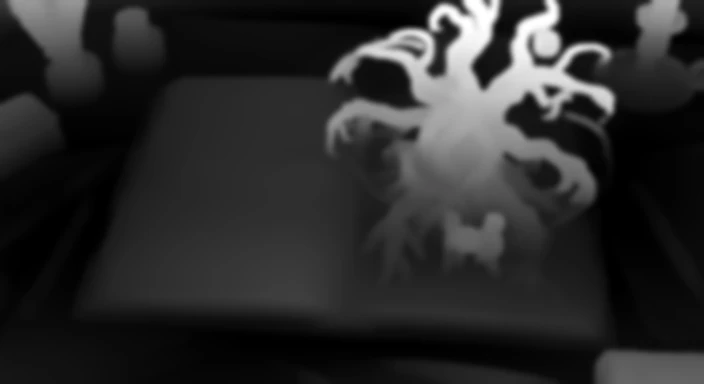
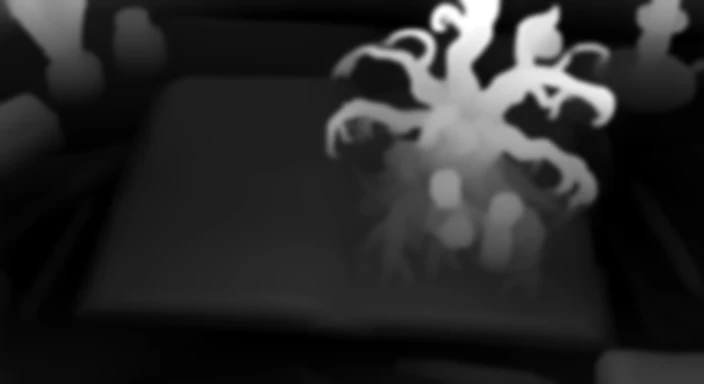
Upside-Down World p13: new basketball picture; Sam points and gasps (soft fade), gentle branch sway, warm sun glow, dust, 2x upscale
Claude-Session: https://claude.ai/code/session_01BFtifSTdmWYaAK88ECs5PE

diff --git a/books/upside-down-world/sprite.js b/books/upside-down-world/sprite.js
@@ -1,2 +1,2 @@
 /* flying objects drawn over a still page: img = transparent sprite, rs = ball radius in the sprite, path = [x,y,radius] per frame at 24 fps in 1408x768 picture pixels */
-window.SPRITES={p01:{img:"img/p01-ball.webp",size:260,rs:104.5,path:[[951.0,390.0,18.5],[946.4,377.6,21.9],[944.8,373.2,22.6],[941.8,364.8,24.4],[938.6,356.8,26.0],[935.2,349.1,27.6],[931.6,342.1,29.2],[927.9,335.5,30.7],[923.8,329.1,32.0],[919.7,322.8,33.5],[915.7,316.9,34.9],[911.8,311.1,36.2],[907.8,305.5,37.6],[903.9,300.1,38.9],[899.8,295.1,40.2],[895.8,290.0,41.2],[891.4,285.1,42.2],[887.2,280.3,43.2],[882.9,275.7,44.3],[878.9,271.0,45.3],[874.9,266.6,46.5],[871.2,262.1,47.8],[867.5,257.7,49.1],[863.9,253.4,50.5],[860.2,249.1,51.8],[856.2,244.7,53.0],[852.4,240.6,54.2],[848.3,236.6,55.3],[843.9,232.6,56.5],[839.6,228.6,57.6],[835.4,224.8,58.6],[830.9,221.0,59.7],[826.3,217.3,60.7],[821.9,213.7,61.5],[817.4,210.1,62.4],[812.8,206.8,63.6],[808.1,203.5,64.5],[803.4,200.3,65.6],[798.8,196.9,66.6],[794.1,193.7,67.7],[789.4,190.4,68.8],[784.8,187.1,70.0],[780.1,183.8,71.3],[775.3,180.6,72.7],[770.3,177.4,74.1],[765.1,174.3,75.5],[759.8,171.1,77.0],[754.7,167.8,78.5],[749.2,164.6,80.0],[743.7,161.4,81.3],[738.1,157.9,82.7],[732.6,154.6,84.0]]},p02:{img:"img/p01-ball.webp",size:260,rs:104.5,kind:"lob",from:[1008,538,9],to:[1040,212,4.2],apex:170,rig:[{img:"img/p02-leg.webp",box:[960,515,60,60],pivot:[987,531],depth:[988,545],motion:"leg"}]},p03:{rig:[{img:"img/p03-leo.webp",box:[906,462,52,56],pivot:[932,504],depth:[932,495],motion:"headL"},{img:"img/p03-sam.webp",box:[946,475,52,56],pivot:[972,515],depth:[972,505],motion:"headS"}]},p03s:{img:"img/p01-ball.webp",size:260,rs:104.5,kind:"hops",ground:true,rest:1.6,start:[920.3,488.6,14.5],du:[1.25,.42,.3],grow:.5,bend:-62,hops:[[896,197,9.5,175],[892,187,8.5,15],[879,181,7.5,6]],to:[879,181,7.5]},p03t:{rig:[{img:"img/p03-turn.webp",box:[888,468,114,140],pivot:[945,538],depth:[945,540],motion:"turn"}]},p05p:{rig:[{img:"img/p05-point.webp",box:[884,452,118,156],pivot:[943,530],depth:[943,540],motion:"point2"}]},p06k:{rig:[{img:"img/p06-k0.webp",box:[878,423,80,114],pivot:[918.4,478.3],depth:[918.4,508.3],motion:"kf0"},{img:"img/p06-k1.webp",box:[866,417,97,111],pivot:[915.3,473.5],depth:[915.3,503.5],motion:"kf1"},{img:"img/p06-k2.webp",box:[874,472,99,116],pivot:[921.4,531.8],depth:[921.4,561.8],motion:"kf2"}]},p07k:{rig:[{img:"img/p07-kids.webp",box:[859.6,324.2,83.1,120.1],pivot:[910,404],depth:[910,395],motion:"walk7"}]},p08k:{rig:[{img:"img/p08-k1.webp",box:[750,272,339.5,323],pivot:[920,590],depth:[920,560],motion:"p8a"},{img:"img/p08-k2.webp",box:[781,272,283.5,323],pivot:[920,590],depth:[920,560],motion:"p8b"}]},p09k:{rig:[{img:"img/p09-wave.webp",box:[868,430,152,180],pivot:[944,520],depth:[944,540],motion:"p9"}]},p10k:{rig:[{img:"img/p10-kids.webp",box:[800,350,240,210],pivot:[920,455],depth:[920,470],motion:"stride"},{img:"img/p10-whale.webp",box:[640,30,550,380],pivot:[905,220],depth:[905,220],motion:"flip10"}]},p11k:{rig:[{img:"img/p10-kids.webp",box:[800,350,240,210],pivot:[920,455],depth:[920,470],motion:"stride"},{img:"img/p11-song.webp",box:[23,59,1272,491],pivot:[660,300],depth:[880,180],motion:"song11"}]},p12k:{rig:[{img:"img/p12-k1.webp",box:[810,340,250,260],pivot:[935,470],depth:[935,480],motion:"p12a"},{img:"img/p12-k2.webp",box:[810,340,250,260],pivot:[935,470],depth:[935,480],motion:"p12b"}]}};
+window.SPRITES={p01:{img:"img/p01-ball.webp",size:260,rs:104.5,path:[[951.0,390.0,18.5],[946.4,377.6,21.9],[944.8,373.2,22.6],[941.8,364.8,24.4],[938.6,356.8,26.0],[935.2,349.1,27.6],[931.6,342.1,29.2],[927.9,335.5,30.7],[923.8,329.1,32.0],[919.7,322.8,33.5],[915.7,316.9,34.9],[911.8,311.1,36.2],[907.8,305.5,37.6],[903.9,300.1,38.9],[899.8,295.1,40.2],[895.8,290.0,41.2],[891.4,285.1,42.2],[887.2,280.3,43.2],[882.9,275.7,44.3],[878.9,271.0,45.3],[874.9,266.6,46.5],[871.2,262.1,47.8],[867.5,257.7,49.1],[863.9,253.4,50.5],[860.2,249.1,51.8],[856.2,244.7,53.0],[852.4,240.6,54.2],[848.3,236.6,55.3],[843.9,232.6,56.5],[839.6,228.6,57.6],[835.4,224.8,58.6],[830.9,221.0,59.7],[826.3,217.3,60.7],[821.9,213.7,61.5],[817.4,210.1,62.4],[812.8,206.8,63.6],[808.1,203.5,64.5],[803.4,200.3,65.6],[798.8,196.9,66.6],[794.1,193.7,67.7],[789.4,190.4,68.8],[784.8,187.1,70.0],[780.1,183.8,71.3],[775.3,180.6,72.7],[770.3,177.4,74.1],[765.1,174.3,75.5],[759.8,171.1,77.0],[754.7,167.8,78.5],[749.2,164.6,80.0],[743.7,161.4,81.3],[738.1,157.9,82.7],[732.6,154.6,84.0]]},p02:{img:"img/p01-ball.webp",size:260,rs:104.5,kind:"lob",from:[1008,538,9],to:[1040,212,4.2],apex:170,rig:[{img:"img/p02-leg.webp",box:[960,515,60,60],pivot:[987,531],depth:[988,545],motion:"leg"}]},p03:{rig:[{img:"img/p03-leo.webp",box:[906,462,52,56],pivot:[932,504],depth:[932,495],motion:"headL"},{img:"img/p03-sam.webp",box:[946,475,52,56],pivot:[972,515],depth:[972,505],motion:"headS"}]},p03s:{img:"img/p01-ball.webp",size:260,rs:104.5,kind:"hops",ground:true,rest:1.6,start:[920.3,488.6,14.5],du:[1.25,.42,.3],grow:.5,bend:-62,hops:[[896,197,9.5,175],[892,187,8.5,15],[879,181,7.5,6]],to:[879,181,7.5]},p03t:{rig:[{img:"img/p03-turn.webp",box:[888,468,114,140],pivot:[945,538],depth:[945,540],motion:"turn"}]},p05p:{rig:[{img:"img/p05-point.webp",box:[884,452,118,156],pivot:[943,530],depth:[943,540],motion:"point2"}]},p06k:{rig:[{img:"img/p06-k0.webp",box:[878,423,80,114],pivot:[918.4,478.3],depth:[918.4,508.3],motion:"kf0"},{img:"img/p06-k1.webp",box:[866,417,97,111],pivot:[915.3,473.5],depth:[915.3,503.5],motion:"kf1"},{img:"img/p06-k2.webp",box:[874,472,99,116],pivot:[921.4,531.8],depth:[921.4,561.8],motion:"kf2"}]},p07k:{rig:[{img:"img/p07-kids.webp",box:[859.6,324.2,83.1,120.1],pivot:[910,404],depth:[910,395],motion:"walk7"}]},p08k:{rig:[{img:"img/p08-k1.webp",box:[750,272,339.5,323],pivot:[920,590],depth:[920,560],motion:"p8a"},{img:"img/p08-k2.webp",box:[781,272,283.5,323],pivot:[920,590],depth:[920,560],motion:"p8b"}]},p09k:{rig:[{img:"img/p09-wave.webp",box:[868,430,152,180],pivot:[944,520],depth:[944,540],motion:"p9"}]},p10k:{rig:[{img:"img/p10-kids.webp",box:[800,350,240,210],pivot:[920,455],depth:[920,470],motion:"stride"},{img:"img/p10-whale.webp",box:[640,30,550,380],pivot:[905,220],depth:[905,220],motion:"flip10"}]},p11k:{rig:[{img:"img/p10-kids.webp",box:[800,350,240,210],pivot:[920,455],depth:[920,470],motion:"stride"},{img:"img/p11-song.webp",box:[23,59,1272,491],pivot:[660,300],depth:[880,180],motion:"song11"}]},p12k:{rig:[{img:"img/p12-k1.webp",box:[810,340,250,260],pivot:[935,470],depth:[935,480],motion:"p12a"},{img:"img/p12-k2.webp",box:[810,340,250,260],pivot:[935,470],depth:[935,480],motion:"p12b"}]},p13k:{rig:[{img:"img/p13-gasp.webp",box:[920,350,140,140],pivot:[990,420],depth:[990,430],motion:"p13"}]}};

diff --git a/books/upside-down-world/index.html b/books/upside-down-world/index.html
@@ -401,6 +401,9 @@ const MOT={
   /* page 12: the kids look ahead, turn to each other, high-five, then settle back (16 s) */
   p12(tt,j){const T=16;tt=((tt%T)+T)%T;const on=(s,e,f)=>tt<s||tt>e+f?0:tt<s+f?ease((tt-s)/f):tt<e?1:1-ease((tt-e)/f);
     return {dx:0,dy:0,rot:0,sx:1,sy:1,a:j===1?on(3,12.5,.55):on(6.6,10,.45)};},
+  /* page 13: Sam points at the strange ball and gasps, twice per 14 s cycle */
+  p13(tt){const T=14;tt=((tt%T)+T)%T;const on=(s,e)=>tt<s||tt>e+.45?0:tt<s+.4?ease((tt-s)/.4):tt<e?1:1-ease((tt-e)/.45);
+    return {dx:0,dy:0,rot:0,sx:1,sy:1,a:Math.max(on(2.5,6),on(9,11.5))};},
   hide(tt){const T=16;tt=((tt%T)+T)%T;const S=7.0,E=11.6+.85;return {dx:0,dy:0,rot:0,sx:1,sy:1,a:Math.max(0,Math.min(1,(tt-S)/.12,(E-tt)/.12))};},
   head(tt,dir,lag){const T=16;tt=((tt-lag)%T+T)%T;let k=0;
     if(tt>=.8&&tt<1.9)k=ease((tt-.8)/1.1);else if(tt>=1.9&&tt<4.8)k=1;else if(tt>=4.8&&tt<5.9)k=1-ease((tt-4.8)/1.1);
@@ -411,7 +414,7 @@ function drawRig(c,d,L,now,dt,w,h,t,ps,o){
   const p=L._p,dim=p.fx==='shade'?dimS:0;
   (d.rig||[]).forEach(r=>{if(!r.im||!r.im.complete||!r.im.naturalWidth)return;
     const tt=reduce?0:(now-pageT0)/1000;
-    const M=r.motion==='p12a'?MOT.p12(tt,1):r.motion==='p12b'?MOT.p12(tt,2):r.motion==='flip10'?MOT.flip10(tt):r.motion==='stride'?MOT.stride(tt):r.motion==='song11'?MOT.song11(tt):r.motion==='p9'?MOT.p9(tt):r.motion==='p8a'?MOT.p8(tt,1):r.motion==='p8b'?MOT.p8(tt,2):r.motion==='walk7'?MOT.walk7(tt):r.motion&&r.motion.startsWith('kf')?MOT.kf(tt,+r.motion[2]):r.motion==='point2'?MOT.point2(tt):r.motion==='point'?MOT.point(tt):r.motion==='hide'?MOT.hide(tt):r.motion==='turn'?MOT.turn(tt):r.motion==='leg'?MOT.leg(tt):r.motion==='headL'?MOT.head(tt,1,0):MOT.head(tt,-1,.18);
+    const M=r.motion==='p13'?MOT.p13(tt):r.motion==='p12a'?MOT.p12(tt,1):r.motion==='p12b'?MOT.p12(tt,2):r.motion==='flip10'?MOT.flip10(tt):r.motion==='stride'?MOT.stride(tt):r.motion==='song11'?MOT.song11(tt):r.motion==='p9'?MOT.p9(tt):r.motion==='p8a'?MOT.p8(tt,1):r.motion==='p8b'?MOT.p8(tt,2):r.motion==='walk7'?MOT.walk7(tt):r.motion&&r.motion.startsWith('kf')?MOT.kf(tt,+r.motion[2]):r.motion==='point2'?MOT.point2(tt):r.motion==='point'?MOT.point(tt):r.motion==='hide'?MOT.hide(tt):r.motion==='turn'?MOT.turn(tt):r.motion==='leg'?MOT.leg(tt):r.motion==='headL'?MOT.head(tt,1,0):MOT.head(tt,-1,.18);
     const rl=depthAt(p.img,r.depth[0],r.depth[1]),qx=r.pivot[0]/W,qy=r.pivot[1]/H,s2=shiftAt(qx,qy,rl,t),
       px=(o[0]+(qx-o[0])*curS+s2[0])*w,py=(o[1]+(qy-o[1])*curS+s2[1])*h;
     const sh=sm3(.30,.40,qx)*sm3(.97,.90,qx)*sm3(.95,.85,qy)*rl*(.055*Math.sin(t*1.6+qx*13+qy*6)+.035*Math.sin(t*2.7-qy*17)),f=(1+sh)*(1-dim*.25);

diff --git a/books/upside-down-world/story.js b/books/upside-down-world/story.js
@@ -37,7 +37,7 @@ window.STORY={title:"The Upside-Down World",author:"M. A. Mafodh",pages:[
 {img:"p10",sprite:"p12k",wind:-1.3,swirl:[1090,85,.004],dust:true,box:[362,190,628,405],parts:[
  "They scrambled back through the tunnel, stumbling over each other, and burst out from under the oak tree, landing in a heap on the familiar grass of the park.",
  "The sun was normal yellow again. The air was warm and smelled like cut grass. They were back. Leo panted, his heart thumping like a drum. Sam sat up, blinking in the bright light."]},
-{img:"p11",box:[305,425,700,600],parts:[
+{img:"p11",sprite:"p13k",wind:-1.3,swirl:[1093,85,.004],dust:true,box:[305,425,700,600],parts:[
  "\"Where's our ball?\" Sam asked, looking around. Leo spotted it sitting by the tree's trunk. He walked over to pick it up... and stopped.",
  "It wasn't their soccer ball anymore. It was a basketball. Orange and bumpy, with the familiar black lines. Sam came up beside him. \"That's... not our ball.\""]},
 {img:"p12",box:[362,190,628,395],parts:[
